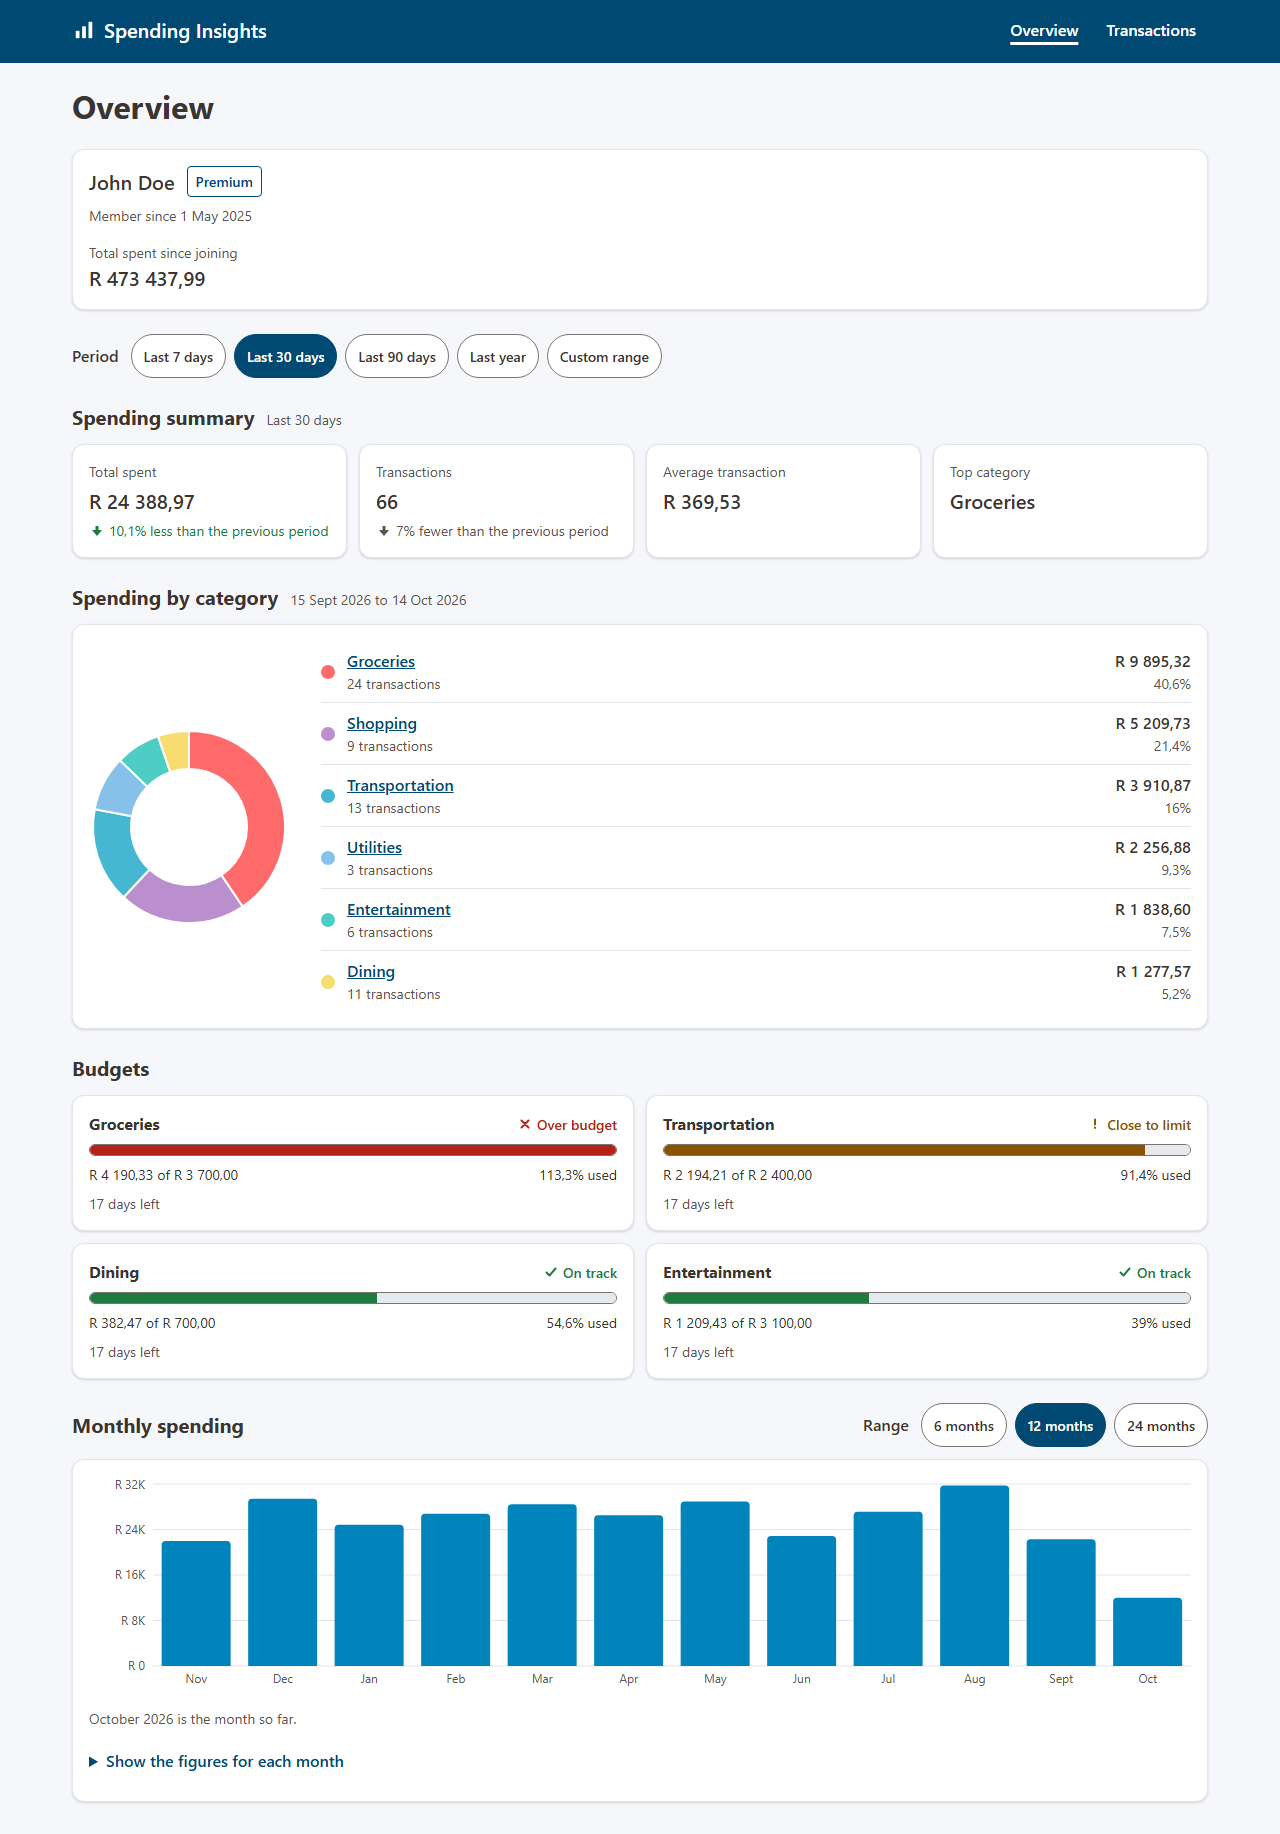
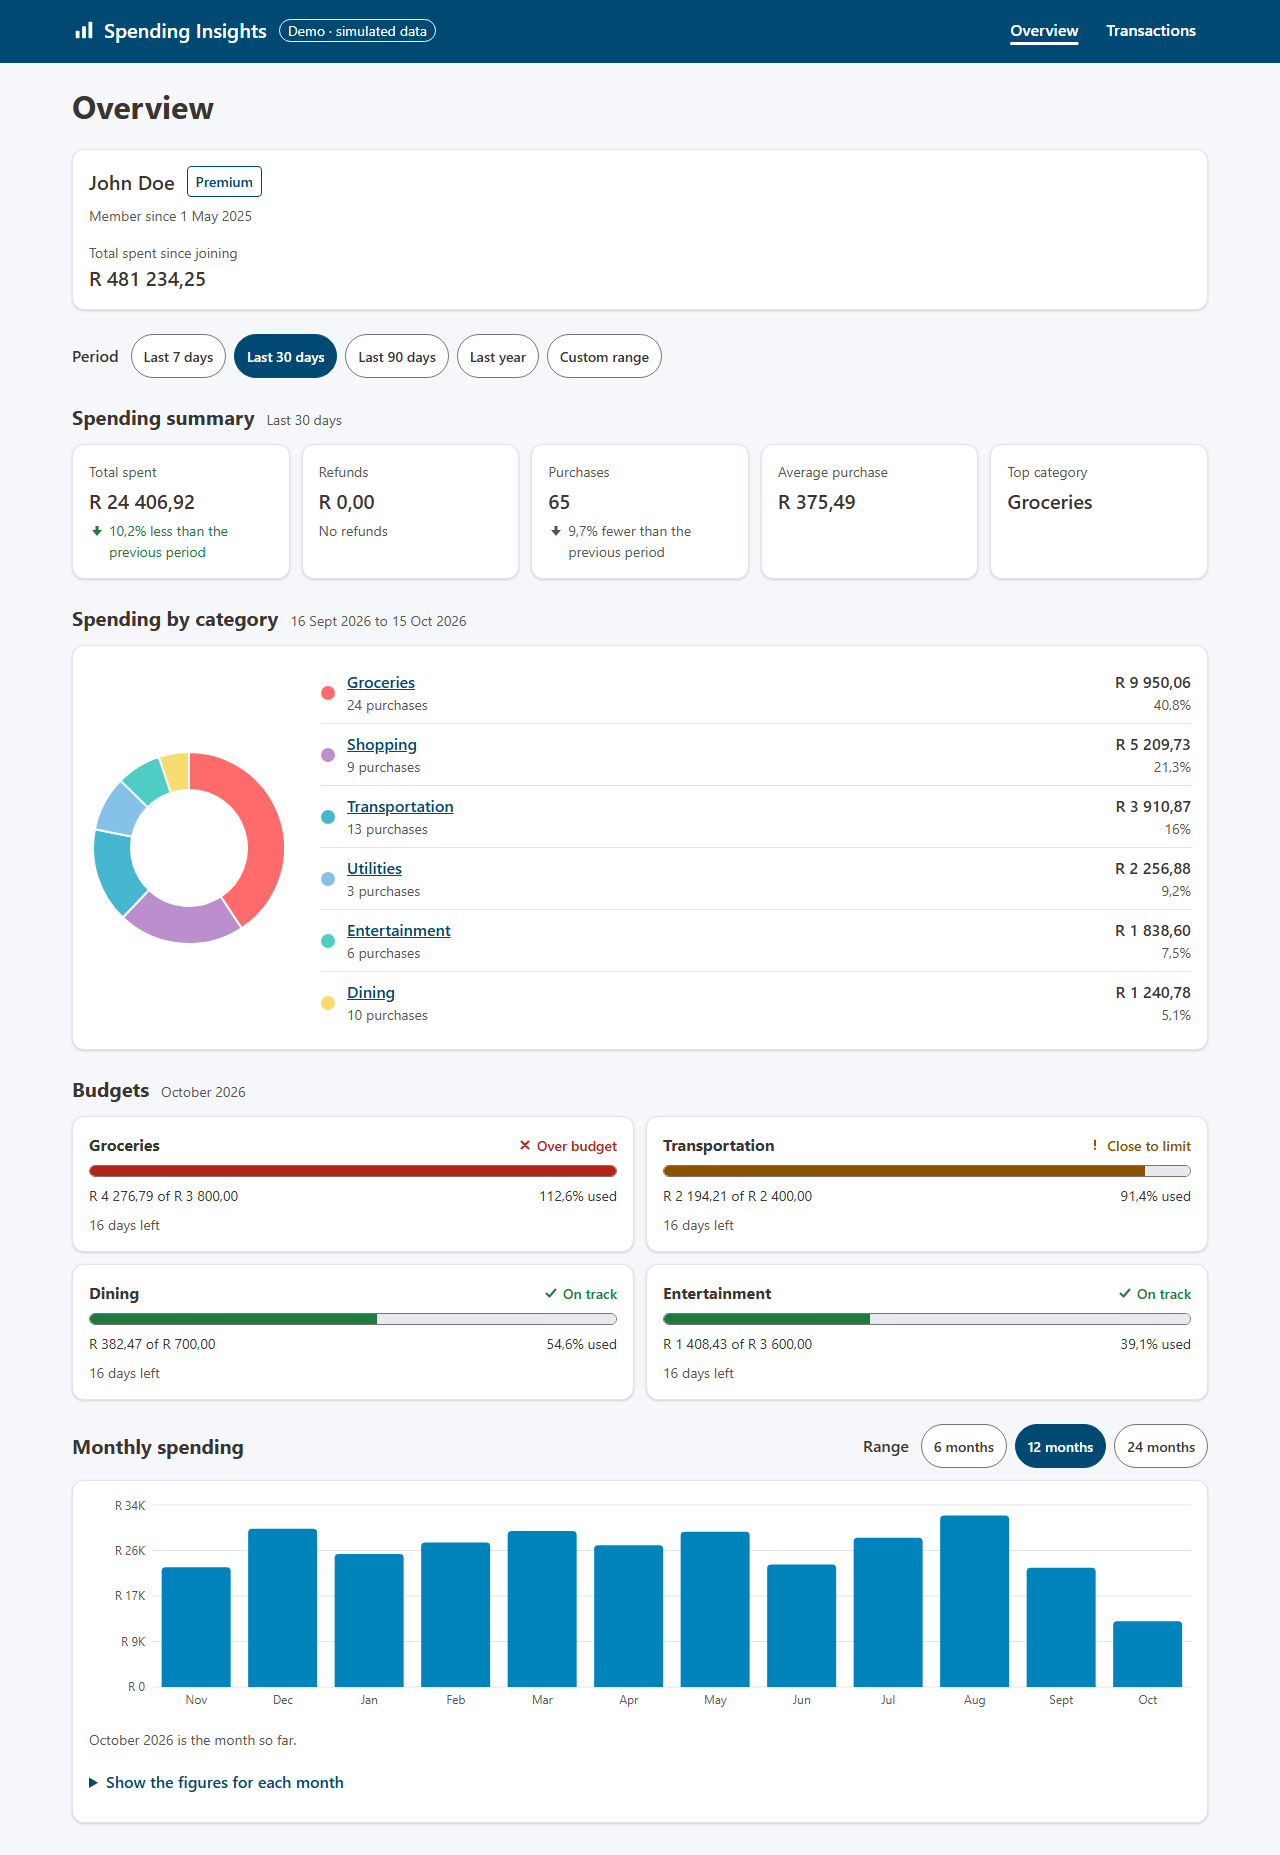
docs: bring the README and testing strategy up to date with the review (#123)
The README screenshots show the refunds card and the demo label, the
overview describes refunds and the "Updating" state, and the testing
table mentions the reconciliation checks.

The Lighthouse line now leads with the demo image, which loads its
data, and says the production image's 95 was measured on an error
state, as the review pointed out.

The testing strategy gains a principle from the review: test what is
on screen while data loads, and that figures agree across views.

Refs: #115, #116, #118

diff --git a/README.md b/README.md
@@ -5,7 +5,7 @@
 
 A responsive dashboard that shows a bank customer's spending: a summary for a chosen period, spending by category, budgets, monthly trends and a filterable list of transactions. The data comes from a mocked API that follows the contract in [`docs/brief/api-spec.md`](docs/brief/api-spec.md).
 
-**Live demo: [insights.dimba.co.za](https://insights.dimba.co.za)**, deployed from `main` ([ADR 0015](docs/adr/0015-demo-on-vercel.md)). The data is generated, seeded and relative to today.
+**Live demo: [insights.dimba.co.za](https://insights.dimba.co.za)**, deployed from `main` ([ADR 0015](docs/adr/0015-demo-on-vercel.md)). The data is generated, seeded and relative to today, and the header says so.
 
 | Desktop | Phone | Phone, dark theme |
 | --- | --- | --- |
@@ -26,13 +26,13 @@ A responsive dashboard that shows a bank customer's spending: a summary for a ch
 
 ## What it does
 
-- **Overview:** the customer's profile, then a period selector (last 7, 30 or 90 days, last year or a custom range) that drives the spending summary and the category breakdown. Each change from the previous period is stated in words, not only by colour or an arrow.
+- **Overview:** the customer's profile, then a period selector (last 7, 30 or 90 days, last year or a custom range) that drives the spending summary and the category breakdown. Purchases and refunds are reported separately, so the summary, the categories and the transactions always add up ([A21](docs/api-assumptions.md#a21-purchases-and-refunds-in-totals)). Each change from the previous period is stated in words, not only by colour or an arrow.
 - **Spending by category:** a donut chart beside the same data as a list, with each category linking to its transactions.
 - **Budgets:** progress against each goal, with its status as a word and an icon as well as a colour.
 - **Monthly spending:** a bar chart over 6, 12 or 24 months, with the figures for each month in a table below it.
 - **Transactions:** a table on wide screens and a list on phones, filtered by category and dates, sorted, and paged 20, 50 or 100 at a time.
 - **Shareable state:** the period, filters, sort and page live in the URL, so a link, a reload or the back button gives the same view.
-- **Every data view has four states:** loading (a skeleton the size of the content), empty, an error with "Try again", and the data.
+- **Every data view has four states:** loading (a skeleton the size of the content), empty, an error with "Try again", and the data. While new data loads, the current figures stay on screen, still labelled with their own period and marked "Updating".
 - **Accessible:** keyboard navigable, with a skip link, visible focus, labelled controls, WCAG AA contrast in both themes, a text or table alternative for every chart, and changes announced to screen readers.
 
 ## Quick start
@@ -98,7 +98,7 @@ The project is built test-first ([ADR 0003](docs/adr/0003-test-driven-developmen
 | Layer | What it proves | Run it with |
 | --- | --- | --- |
 | Static | TypeScript strict with no `any`; ESLint with type-aware, React hooks, accessibility and Testing Library rules; feature boundaries enforced by lint | `npm run typecheck`, `npm run lint` |
-| Unit and contract | Formatting, dates, URL parsing and the data generator are correct at the edges; every example in the API spec and every mock response parses | `npm test` |
+| Unit and contract | Formatting, dates, URL parsing and the data generator are correct at the edges; the summary, categories and transactions reconcile for every period; every example in the API spec and every mock response parses | `npm test` |
 | Component | Each view works in all four states against the mock API, with axe finding no accessibility violations | `npm test` |
 | Security | Injection strings render as text, malformed API data shows an error and never a wrong number, tampered URL parameters fall back to safe values | `npm test`, `npm run test:e2e` |
 | End-to-end | The critical journeys work in desktop Chromium, Chromium at 360px and WebKit as an iPhone, with an axe scan on every page. Any console error, uncaught error or CSP violation fails a test | `npm run test:e2e` |
@@ -188,7 +188,7 @@ Where the API contract left gaps (the sign of a refund, what an unknown goal sta
 
 ### Performance
 
-Each page's code loads on its own and the first page's code is preloaded. CI fails a pull request that takes the app shell over 120 KB of gzipped JavaScript or the dashboard over 250 KB. Lighthouse on a simulated mid-range phone scores 95 for performance and 100 for accessibility on the production image. The [performance report](docs/performance/README.md) has the measurements, and why the demo image, which carries the mock API, scores 90 to 91.
+Each page's code loads on its own and the first page's code is preloaded. CI fails a pull request that takes the app shell over 120 KB of gzipped JavaScript or the dashboard over 250 KB. On a simulated mid-range phone, Lighthouse scores the demo image, which loads its data from the mock API, 90 to 91 for performance and 100 for accessibility. The production image scores 95, but it has no backend, so it was measured showing an error state: it shows how fast the page itself arrives, not a loaded dashboard. The [performance report](docs/performance/README.md) has the measurements.
 
 ## Security
 

diff --git a/docs/testing-strategy.md b/docs/testing-strategy.md
@@ -9,6 +9,7 @@ How this project is tested, and why. The decision to work test-first is recorded
 3. **Fail closed on bad data.** API responses are untrusted. Tests prove that invalid data produces an error state, never a wrong number on screen.
 4. **Deterministic.** Seeded mock data, a fixed clock and no real network. A flaky test is treated as a bug: fixed or quarantined with an issue the same day, never retried until it passes.
 5. **Coverage is a floor, not a goal.** Mutation testing tells us whether the tests would actually catch a fault.
+6. **Test what the customer sees in between, and across views.** A test that checks only the final figures misses what is on screen while new data loads, and a test per view misses figures that disagree with each other. An independent review of v1.0.0 found both with every test passing: a new period's label over the old figures (#116), and categories that no longer added up to the summary (#115). In-between states are tested by holding a response back, and the figures are checked to reconcile across the summary, categories and transactions for every period.
 
 ## The layers
 

diff --git a/CHANGELOG.md b/CHANGELOG.md
@@ -10,6 +10,10 @@ The format is based on [Keep a Changelog](https://keepachangelog.com/en/1.1.0/),
 
 - The header says "Demo · simulated data" in builds with the mock API, so the data is never mistaken for real, and the budgets name the month they are for (#118).
 
+### Changed
+
+- The README shows the current app and states the Lighthouse results precisely, and the testing strategy adds testing in-between states and reconciliation across views, the lesson of the review behind this release.
+
 ### Fixed
 
 - Purchases and refunds are reported separately, so the figures always reconcile. A category whose refunds outweighed its purchases used to vanish, and the categories then added up to more than the summary. Spending now counts purchases everywhere, and the summary shows refunds as their own figure (A21) (#115).
